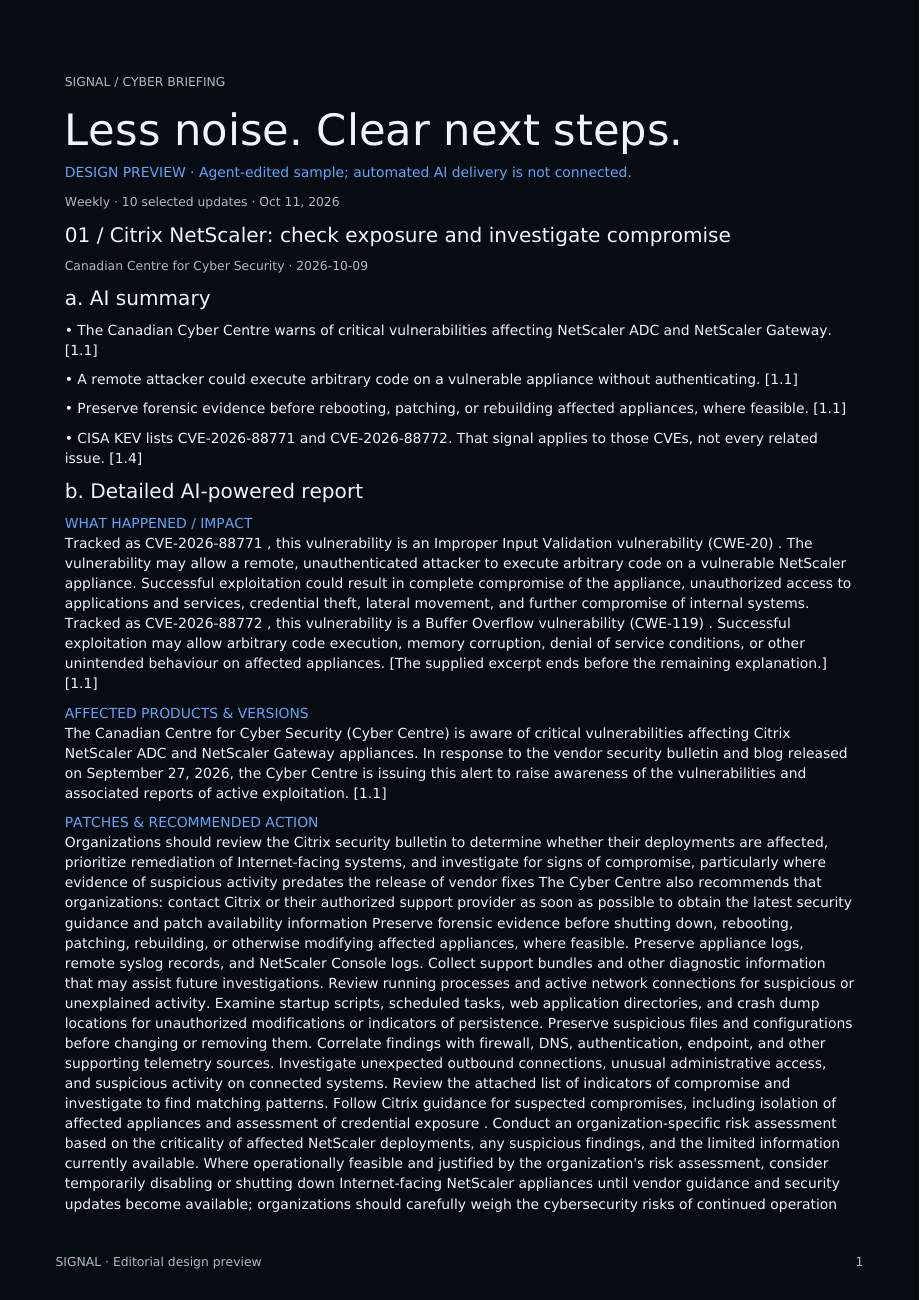
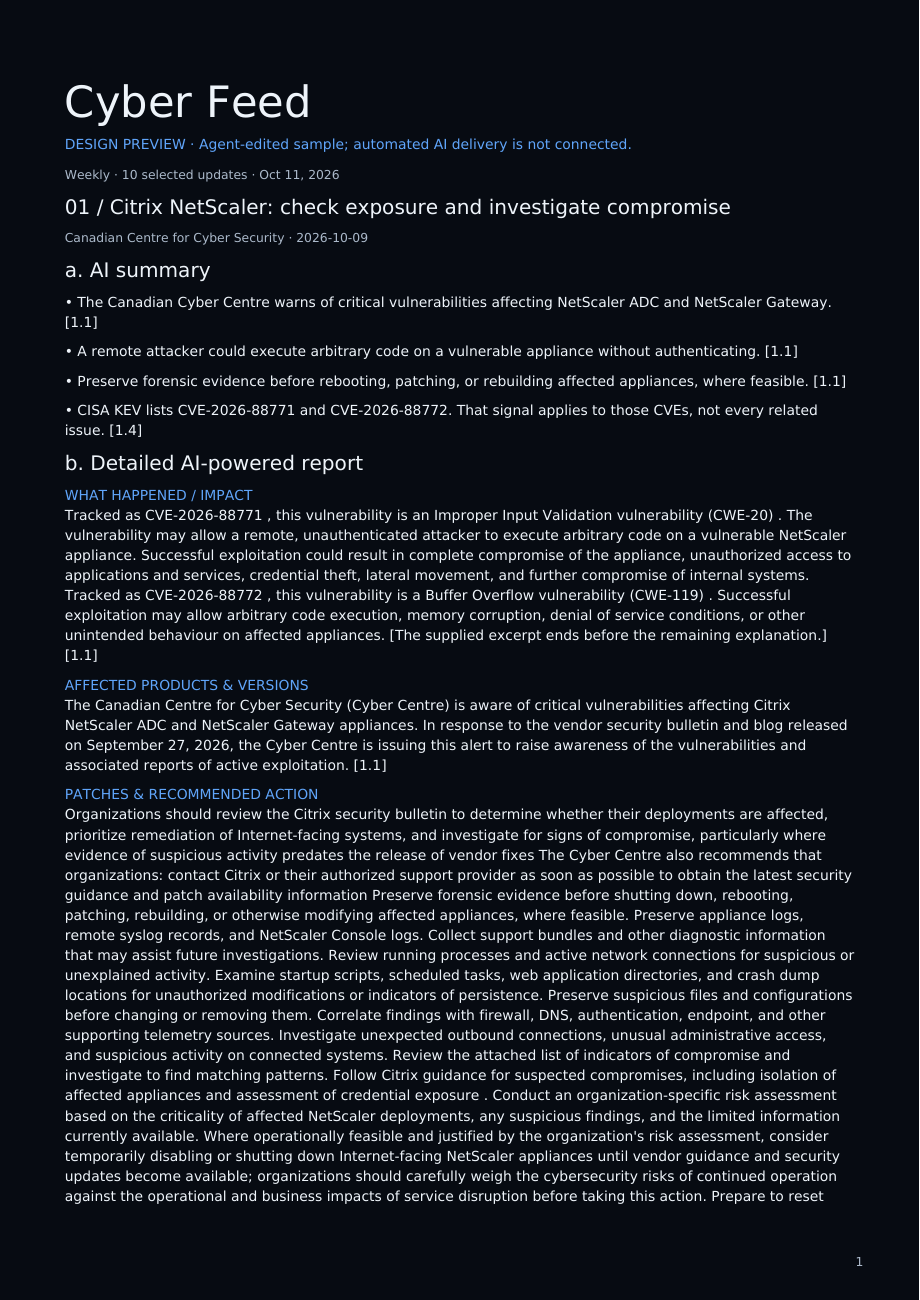
Use Cyber Feed heading and remove Signal preview branding

Changed region(s): [[0.0609, 0.0615, 0.9435, 0.9846], [0.0609, 0.9538, 0.0913, 0.9846]]

diff --git a/cyberbrief/editorial.py b/cyberbrief/editorial.py
@@ -148,7 +148,7 @@ def render(payload, summary, theme='dark'):
     body=style('body');heading=style('heading',13,ink,17);meta=style('meta',8,muted,12);title=style('title',28,ink,34)
     heading.keepWithNext = True
     out=BytesIO();doc=SimpleDocTemplate(out,leftMargin=36,rightMargin=36,topMargin=42,bottomMargin=42)
-    flow=[Paragraph('SIGNAL / CYBER BRIEFING',meta),Paragraph('Less noise. Clear next steps.',title),Paragraph('DESIGN PREVIEW · Agent-edited sample; automated AI delivery is not connected.',style('notice',9,accent,14)),Paragraph(f"{escape(payload['period'].title())} · {len(summary['stories'])} selected updates · {escape(datetime.fromisoformat(payload['generated']).astimezone(ZoneInfo('America/Toronto')).strftime('%b %d, %Y'))}",meta)]
+    flow=[Paragraph('Cyber Feed',title),Paragraph('DESIGN PREVIEW · Agent-edited sample; automated AI delivery is not connected.',style('notice',9,accent,14)),Paragraph(f"{escape(payload['period'].title())} · {len(summary['stories'])} selected updates · {escape(datetime.fromisoformat(payload['generated']).astimezone(ZoneInfo('America/Toronto')).strftime('%b %d, %Y'))}",meta)]
     if payload.get('demo'):flow.append(Paragraph('FICTIONAL DEMO — not real incidents.',body))
     labels={'context':'WHAT HAPPENED / IMPACT','affected':'AFFECTED PRODUCTS & VERSIONS','action':'PATCHES & RECOMMENDED ACTION','exploitation':'EXPLOITATION STATUS'}
     for index,(source,story) in enumerate(zip(payload['stories'],summary['stories']),1):
@@ -188,7 +188,7 @@ def render(payload, summary, theme='dark'):
         for error in payload['errors']:flow.append(Paragraph(escape(error['source']+': '+error['error']),body))
     flow.append(Paragraph('Evidence quotations are retained in the editorial JSON. Human review is required: exact citation matches alone cannot verify a paraphrase.',meta))
     def page(canvas,document):
-        canvas.setFillColor(background);canvas.rect(0,0,*document.pagesize,fill=1,stroke=0);canvas.setFont('SignalPreview',8);canvas.setFillColor(muted);canvas.drawString(36,22,'SIGNAL · Editorial design preview');canvas.drawRightString(document.pagesize[0]-36,22,str(document.page))
+        canvas.setFillColor(background);canvas.rect(0,0,*document.pagesize,fill=1,stroke=0);canvas.setFont('SignalPreview',8);canvas.setFillColor(muted);canvas.drawRightString(document.pagesize[0]-36,22,str(document.page))
     doc.build(flow,onFirstPage=page,onLaterPages=page)
     return out.getvalue()
 

diff --git a/tests/test_editorial.py b/tests/test_editorial.py
@@ -37,6 +37,7 @@ def test_unmatched_evidence_and_oversized_output_fail():
 def test_preview_pdf_preserves_summary_links_and_missing_fields(theme):
     p,s=sample();pdf=render(p,s,theme);reader=PdfReader(BytesIO(pdf))
     text='\n'.join(page.extract_text() for page in reader.pages)
+    assert 'Cyber Feed' in text and 'SIGNAL' not in text and 'Less noise.' not in text
     assert 'DESIGN PREVIEW' in text and 'Not supplied: versions' in text
     assert 'FortiMail' in text and 'Lantronix' in text and 'Citrix' in text
     assert any(page.get('/Annots') for page in reader.pages)
